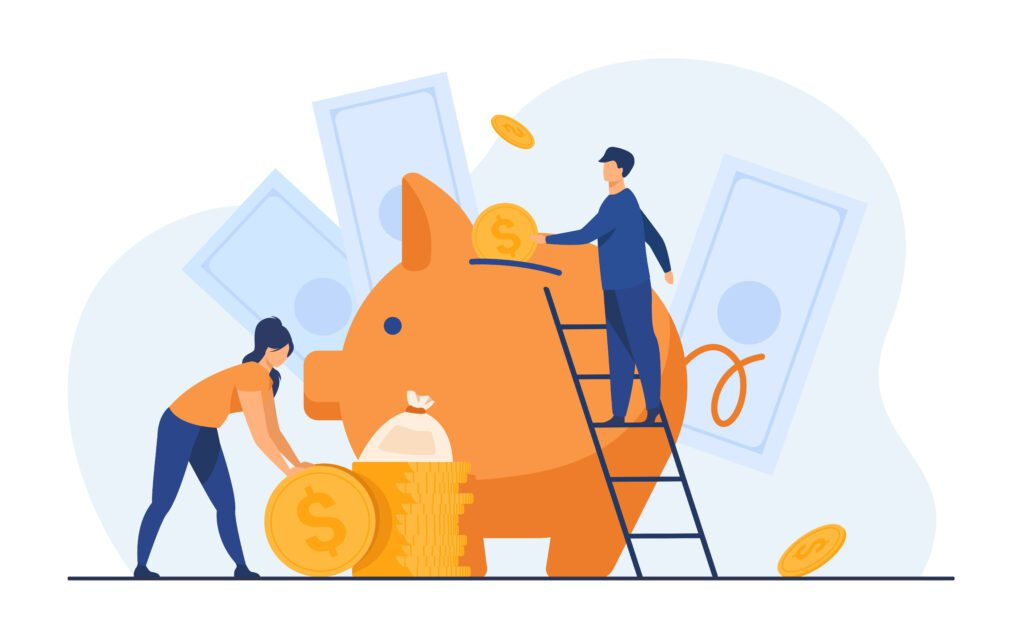
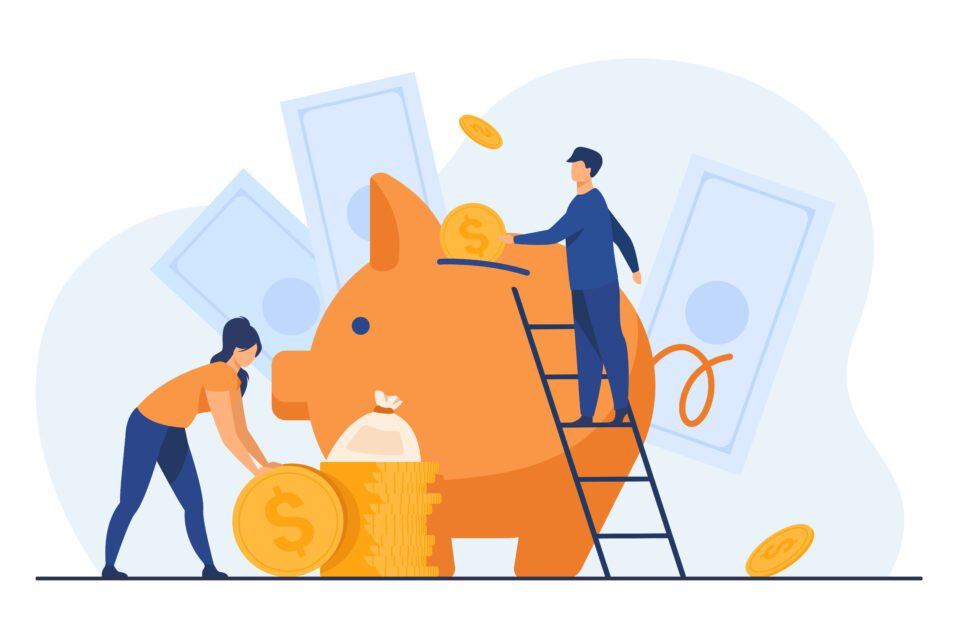
IntroductionScreen finalisiert. - Image für dritten Screen hinzugefügt - Bildgröße runterskalliert und auf einheitliche Abmessungen gesetzt - Button- und Dot-Style angepasst - Übergangsannimation zwischen den Screens optimiert

diff --git a/lib/screens/introduction_screens.dart b/lib/screens/introduction_screens.dart
@@ -51,36 +51,53 @@ class _IntroductionScreensState extends State<IntroductionScreens> {
         PageViewModel(
           title: 'Budgets festlegen',
           body: 'Budgets erstellen, Monat für Monat anpassen & Ausgaben verfolgen.',
-          image: Image.asset('assets/images/introduction_screen_image2.png'),
+          image: Image.asset('assets/images/introduction_screen_image2.jpg'),
         ),
         PageViewModel(
           title: 'Konten und Vermögen verwalten',
-          body: 'TODO',
+          body: 'Verwalte deine Konten & dein Vermögen & behalte stets den Überblick.',
+          image: Image.asset('assets/images/introduction_screen_image3.jpg'),
           //image: _buildImage('img2.jpg'),
         ),
         PageViewModel(
           title: 'Statistiken',
-          body: 'Statistische Auswertungen deiner Einnahmen und Ausgaben, sowie deiner Vermögensentwicklungen.',
-          image: Image.asset('assets/images/introduction_screen_image4.png'),
+          body: 'Statistische Auswertungen deiner Einnahmen & Ausgaben, sowie deiner Vermögensentwicklungen.',
+          image: Image.asset('assets/images/introduction_screen_image4.jpg'),
         ),
       ],
       showNextButton: true,
       showSkipButton: true,
       skip: const Text('Überspringen'),
       skipStyle: const ButtonStyle(
-        foregroundColor: MaterialStatePropertyAll<Color>(Colors.cyanAccent),
+        foregroundColor: MaterialStatePropertyAll<Color>(Colors.black),
       ),
       next: const Text('Weiter'),
       nextStyle: const ButtonStyle(
-        foregroundColor: MaterialStatePropertyAll<Color>(Colors.cyanAccent),
+        foregroundColor: MaterialStatePropertyAll<Color>(Colors.black),
       ),
       done: const Text('Fertig'),
       doneStyle: const ButtonStyle(
-        foregroundColor: MaterialStatePropertyAll<Color>(Colors.cyanAccent),
+        foregroundColor: MaterialStatePropertyAll<Color>(Colors.black),
       ),
       onDone: () {
         _createStartCategoriesAndAccounts();
       },
+      dotsDecorator: DotsDecorator(
+        size: const Size.square(10.0),
+        activeSize: const Size(20.0, 10.0),
+        activeColor: Theme.of(context).colorScheme.secondary,
+        color: Colors.white,
+        spacing: const EdgeInsets.symmetric(horizontal: 3.0),
+        activeShape: RoundedRectangleBorder(
+            borderRadius: BorderRadius.circular(25.0)
+        ),
+      ),
+      baseBtnStyle: TextButton.styleFrom(
+        backgroundColor: Colors.cyanAccent,
+      ),
+      curve: Curves.fastOutSlowIn,
+      animationDuration: 1000,
+      allowImplicitScrolling: false,
     );
   }
 }
